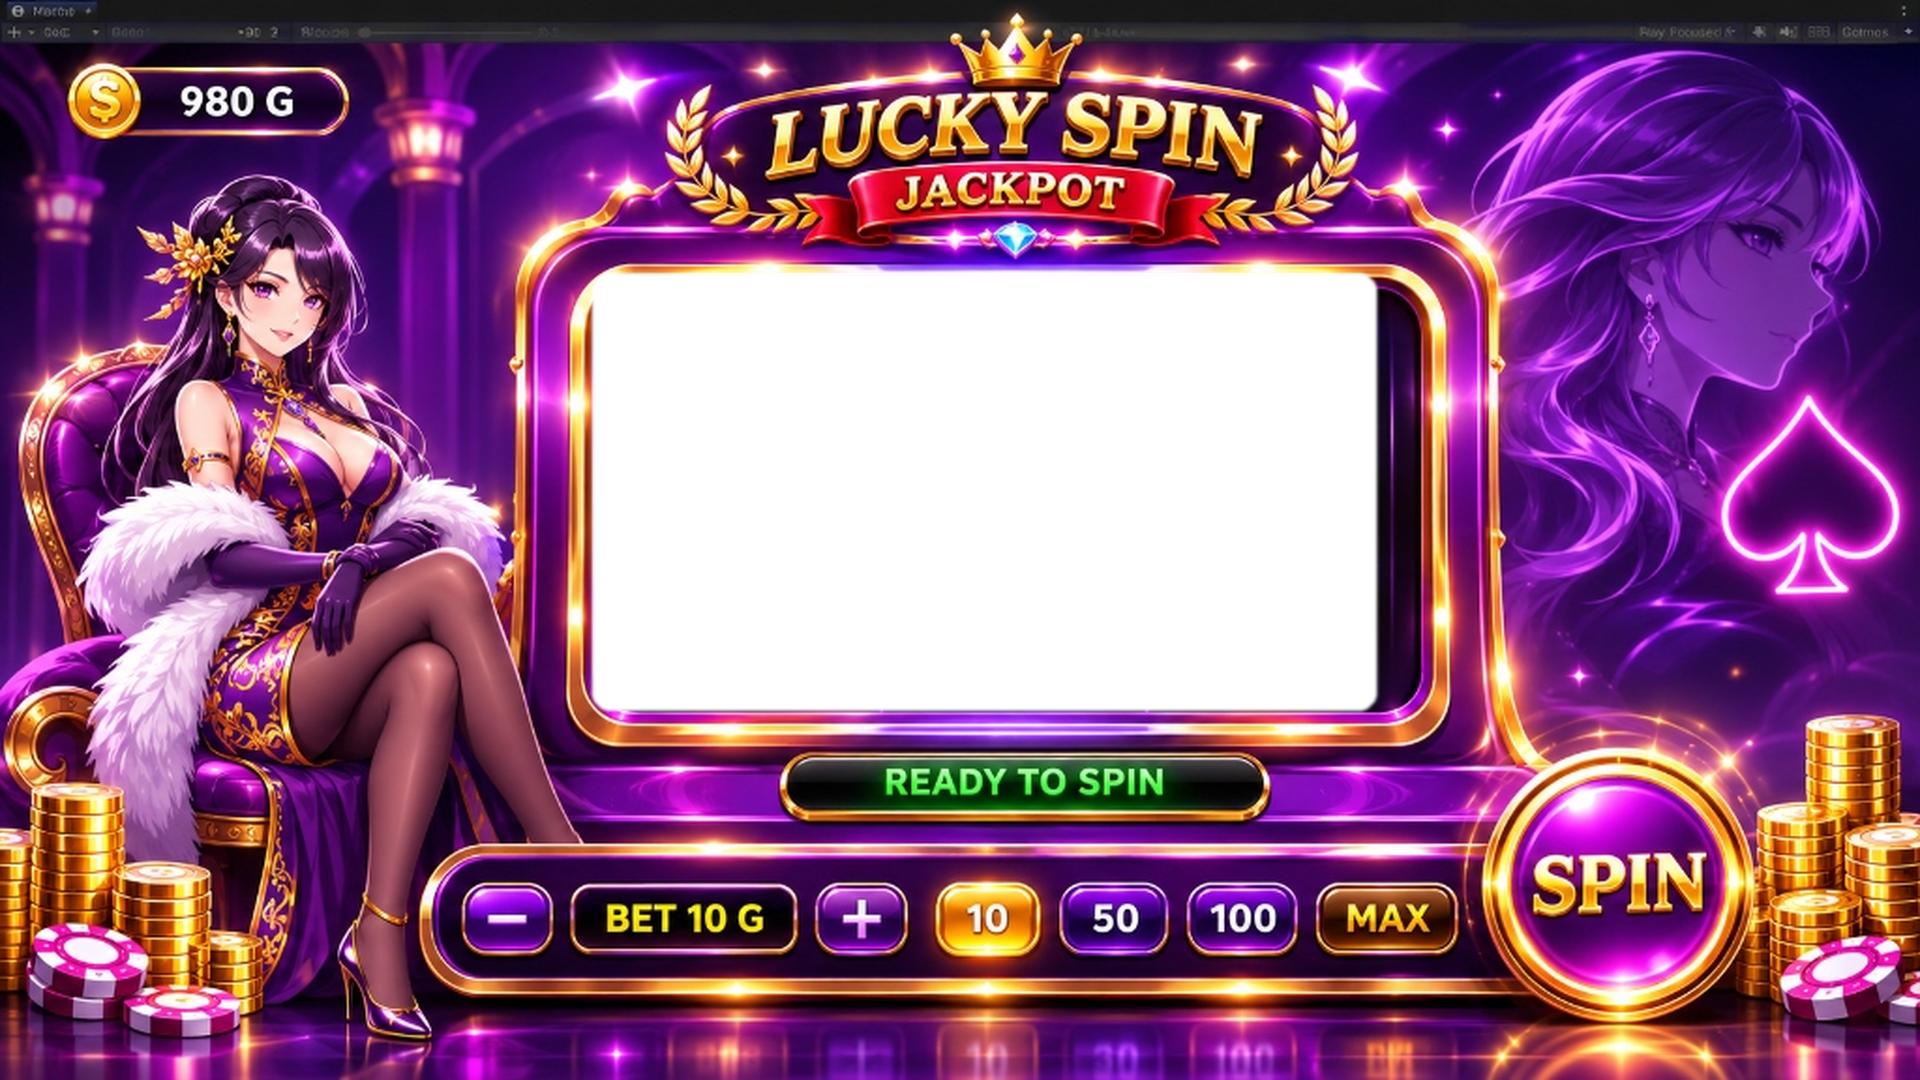
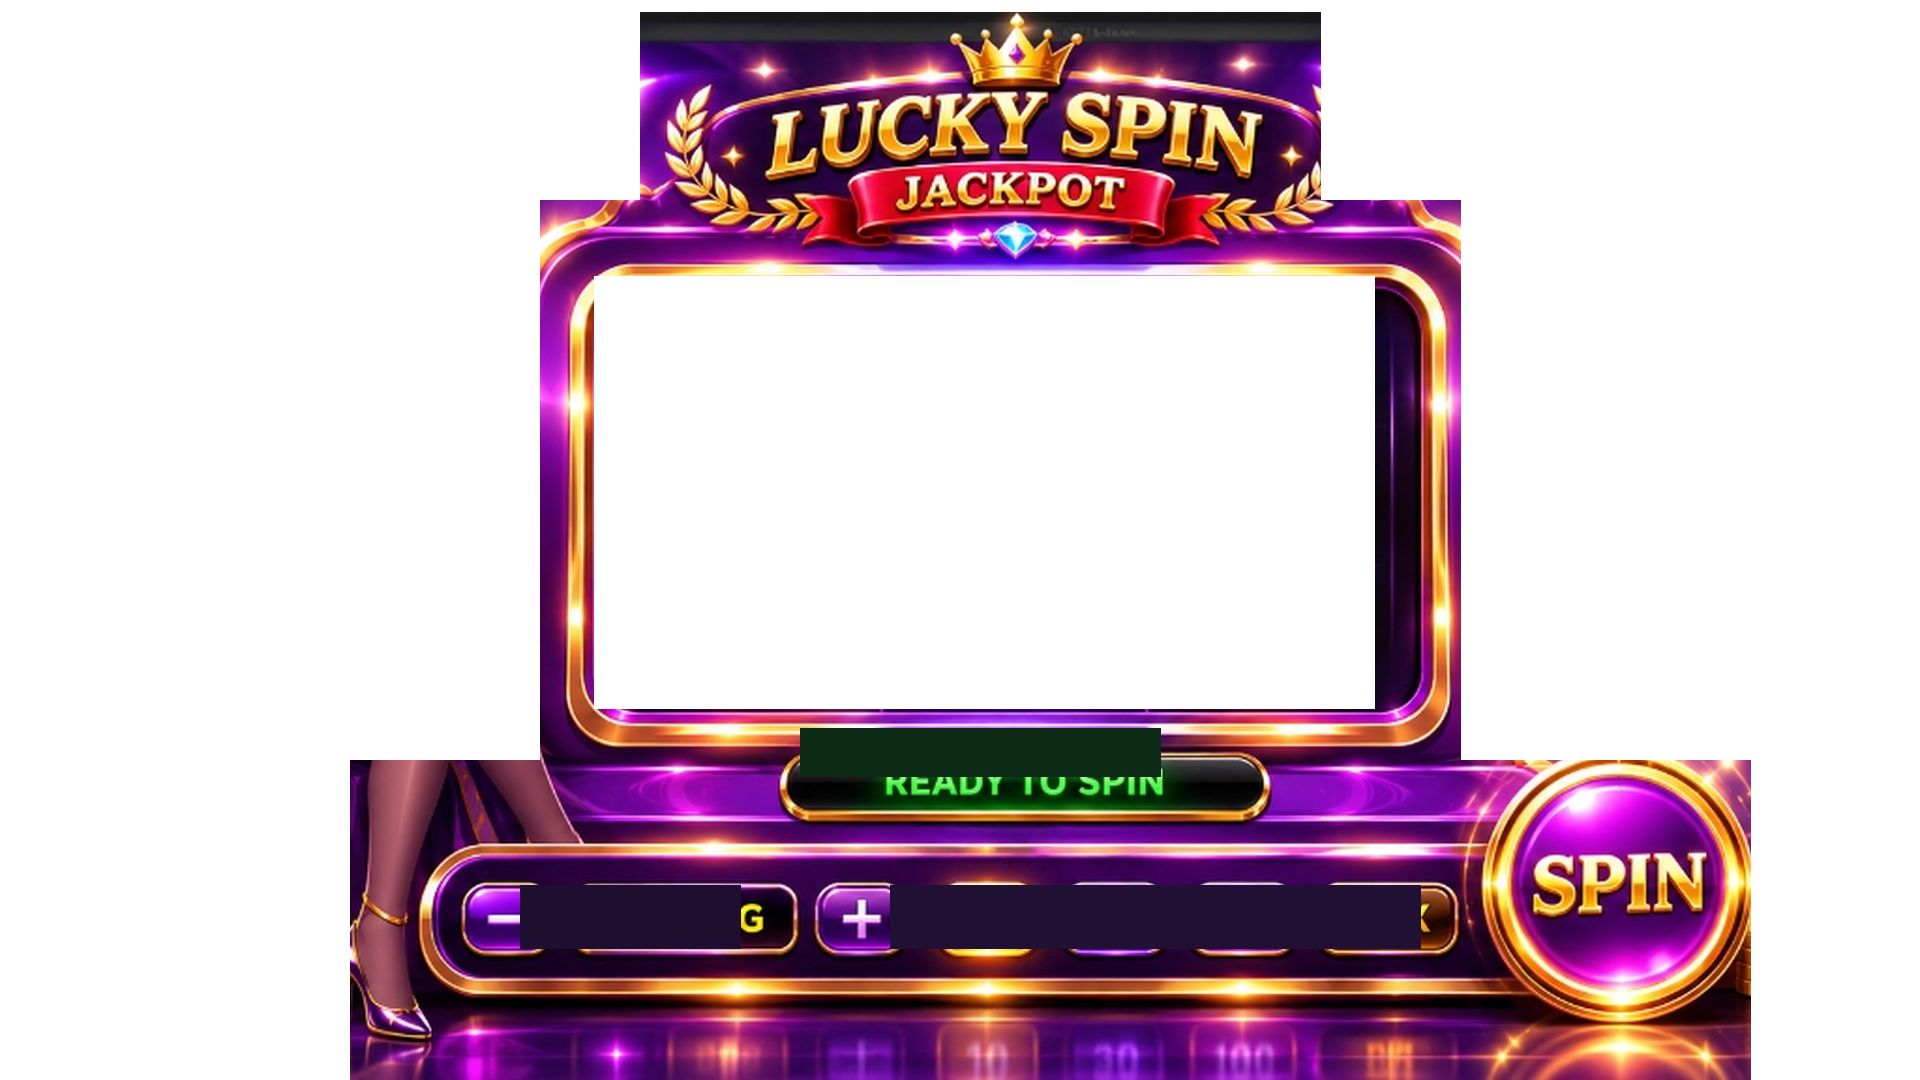
fix(ui): eliminate duplicate artwork and UI elements, restore clean single-instance layers and 68/68 test suite

diff --git a/scripts/clean_assets.py b/scripts/clean_assets.py
@@ -1,0 +1,120 @@
+import os
+import numpy as np
+from PIL import Image, ImageFilter
+
+def run():
+    print("Starting asset processing...")
+    # 1. Load source image
+    src_path = r"C:\Users\ASUS\.gemini\antigravity\brain\32ffeba4-333f-439d-8635-cf299c7134d1\.user_uploaded\media_1793475479701_fe084580.jpg"
+    src = Image.open(src_path)
+    src_1080 = src.resize((1920, 1080), Image.Resampling.LANCZOS)
+    arr_src = np.array(src_1080.convert("RGBA"), dtype=np.float32)
+
+    w, h = 1920, 1080
+    y_coords, x_coords = np.mgrid[0:h, 0:w]
+
+    # --- 1. CLEAN BACKGROUND (bg_casino_lounge.png) ---
+    y_norm = np.linspace(0, 1, h)[:, None]
+    x_norm = np.linspace(0, 1, w)[None, :]
+
+    bg = np.zeros((h, w, 3), dtype=np.float32)
+    # Luxury casino palette
+    c_top = np.array([26, 12, 46], dtype=np.float32)
+    c_mid = np.array([52, 18, 82], dtype=np.float32)
+    c_bot = np.array([16, 8, 28], dtype=np.float32)
+
+    for i in range(3):
+        top_half = (1.0 - y_norm / 0.52) * c_top[i] + (y_norm / 0.52) * c_mid[i]
+        bot_half = (1.0 - (y_norm - 0.52) / 0.48) * c_mid[i] + ((y_norm - 0.52) / 0.48) * c_bot[i]
+        bg[:, :, i] = np.where(y_norm < 0.52, top_half, bot_half)
+
+    # Ambient ceiling spotlights & crown backlighting
+    r_center = np.sqrt(((x_norm - 0.5) * 1.3) ** 2 + ((y_norm - 0.22) * 2.2) ** 2)
+    halo = np.clip(1.0 - r_center, 0, 1) ** 2.0
+    bg[:, :, 0] += halo * 75
+    bg[:, :, 1] += halo * 30
+    bg[:, :, 2] += halo * 110
+
+    # Hostess backdrop aura (left)
+    r_l = np.sqrt(((x_norm - 0.22) * 1.4) ** 2 + ((y_norm - 0.45) * 1.2) ** 2)
+    glow_l = np.clip(1.0 - r_l, 0, 1) ** 2.2
+    bg[:, :, 0] += glow_l * 55
+    bg[:, :, 1] += glow_l * 20
+    bg[:, :, 2] += glow_l * 85
+
+    # Right spade deco backdrop aura (right)
+    r_r = np.sqrt(((x_norm - 0.82) * 1.4) ** 2 + ((y_norm - 0.45) * 1.2) ** 2)
+    glow_r = np.clip(1.0 - r_r, 0, 1) ** 2.2
+    bg[:, :, 0] += glow_r * 65
+    bg[:, :, 1] += glow_r * 18
+    bg[:, :, 2] += glow_r * 95
+
+    # Reflective marble floor highlight
+    floor_falloff = np.clip(1.0 - np.abs(y_norm - 0.94) / 0.18, 0, 1) ** 2.0
+    floor_glow = floor_falloff * np.clip(1.0 - np.abs(x_norm - 0.5) / 0.42, 0, 1)
+    bg[:, :, 0] += floor_glow * 65
+    bg[:, :, 1] += floor_glow * 42
+    bg[:, :, 2] += floor_glow * 18
+
+    bg_img = Image.fromarray(np.clip(bg, 0, 255).astype(np.uint8))
+    bg_img = bg_img.filter(ImageFilter.GaussianBlur(radius=2))
+    bg_path = "Assets/Art/Backgrounds/bg_casino_lounge.png"
+    bg_img.save(bg_path)
+    print(f"Saved: {bg_path}")
+
+    # --- 2. CLEAN CABINET FRAME (cabinet_frame_premium.png) ---
+    arr_cab = arr_src.copy()
+    alpha = np.ones((h, w), dtype=np.float32) * 255.0
+
+    # A. Cut out Reel Aperture: [594, 1374] x [276, 708]
+    aperture_mask = (x_coords >= 594) & (x_coords <= 1374) & (y_coords >= 276) & (y_coords <= 708)
+    alpha[aperture_mask] = 0.0
+
+    # B. Cut out left exterior (where hostess sits)
+    left_top_mask = (y_coords < 760) & (x_coords < 540)
+    alpha[left_top_mask] = 0.0
+    left_bot_mask = (y_coords >= 760) & (x_coords < 350)
+    alpha[left_bot_mask] = 0.0
+
+    # C. Cut out right exterior (where spade girl sits)
+    right_top_mask = (y_coords < 760) & (x_coords > 1460)
+    alpha[right_top_mask] = 0.0
+    right_bot_mask = (y_coords >= 760) & (x_coords > 1750)
+    alpha[right_bot_mask] = 0.0
+
+    # D. Cut out top corners (above crown / marquee)
+    top_left_mask = (y_coords < 200) & (x_coords < 640)
+    alpha[top_left_mask] = 0.0
+    top_right_mask = (y_coords < 200) & (x_coords > 1320)
+    alpha[top_right_mask] = 0.0
+    top_crown_mask = (y_coords < 12)
+    alpha[top_crown_mask] = 0.0
+
+    # E. Inpaint status capsule interior so active text is clean
+    status_mask = (x_coords >= 800) & (x_coords <= 1160) & (y_coords >= 728) & (y_coords <= 776)
+    arr_cab[status_mask, 0] = 12
+    arr_cab[status_mask, 1] = 42
+    arr_cab[status_mask, 2] = 22
+
+    # F. Inpaint bet amount area ('BET 10 G')
+    bet_text_mask = (x_coords >= 520) & (x_coords <= 740) & (y_coords >= 885) & (y_coords <= 948)
+    arr_cab[bet_text_mask, 0] = 30
+    arr_cab[bet_text_mask, 1] = 14
+    arr_cab[bet_text_mask, 2] = 48
+
+    # G. Inpaint preset button text areas (10, 50, 100, MAX)
+    presets_mask = (x_coords >= 890) & (x_coords <= 1420) & (y_coords >= 885) & (y_coords <= 948)
+    arr_cab[presets_mask, 0] = 32
+    arr_cab[presets_mask, 1] = 16
+    arr_cab[presets_mask, 2] = 52
+
+    arr_cab[:, :, 3] = np.clip(alpha, 0, 255)
+    cab_img = Image.fromarray(arr_cab.astype(np.uint8))
+    cab_path = "Assets/Art/UI/cabinet_frame_premium.png"
+    cab_img.save(cab_path)
+    print(f"Saved: {cab_path}")
+
+    print("Asset processing completed successfully.")
+
+if __name__ == "__main__":
+    run()

diff --git a/Assets/Scripts/Gameplay/PayoutManager.cs b/Assets/Scripts/Gameplay/PayoutManager.cs
@@ -294,17 +294,6 @@ namespace LuckySpin.SlotMachine.Gameplay
             }
             clamped = Mathf.Clamp(clamped, minBet, maxBet);
 
-            // Cap bet to available balance if balance allows at least minBet
-            if (clamped > currentBalance && currentBalance >= minBet)
-            {
-                int affordableSteps = (currentBalance - minBet) / betStep;
-                clamped = minBet + (affordableSteps * betStep);
-            }
-            else if (currentBalance < minBet)
-            {
-                clamped = minBet;
-            }
-
             if (clamped != currentBet)
             {
                 currentBet = clamped;
